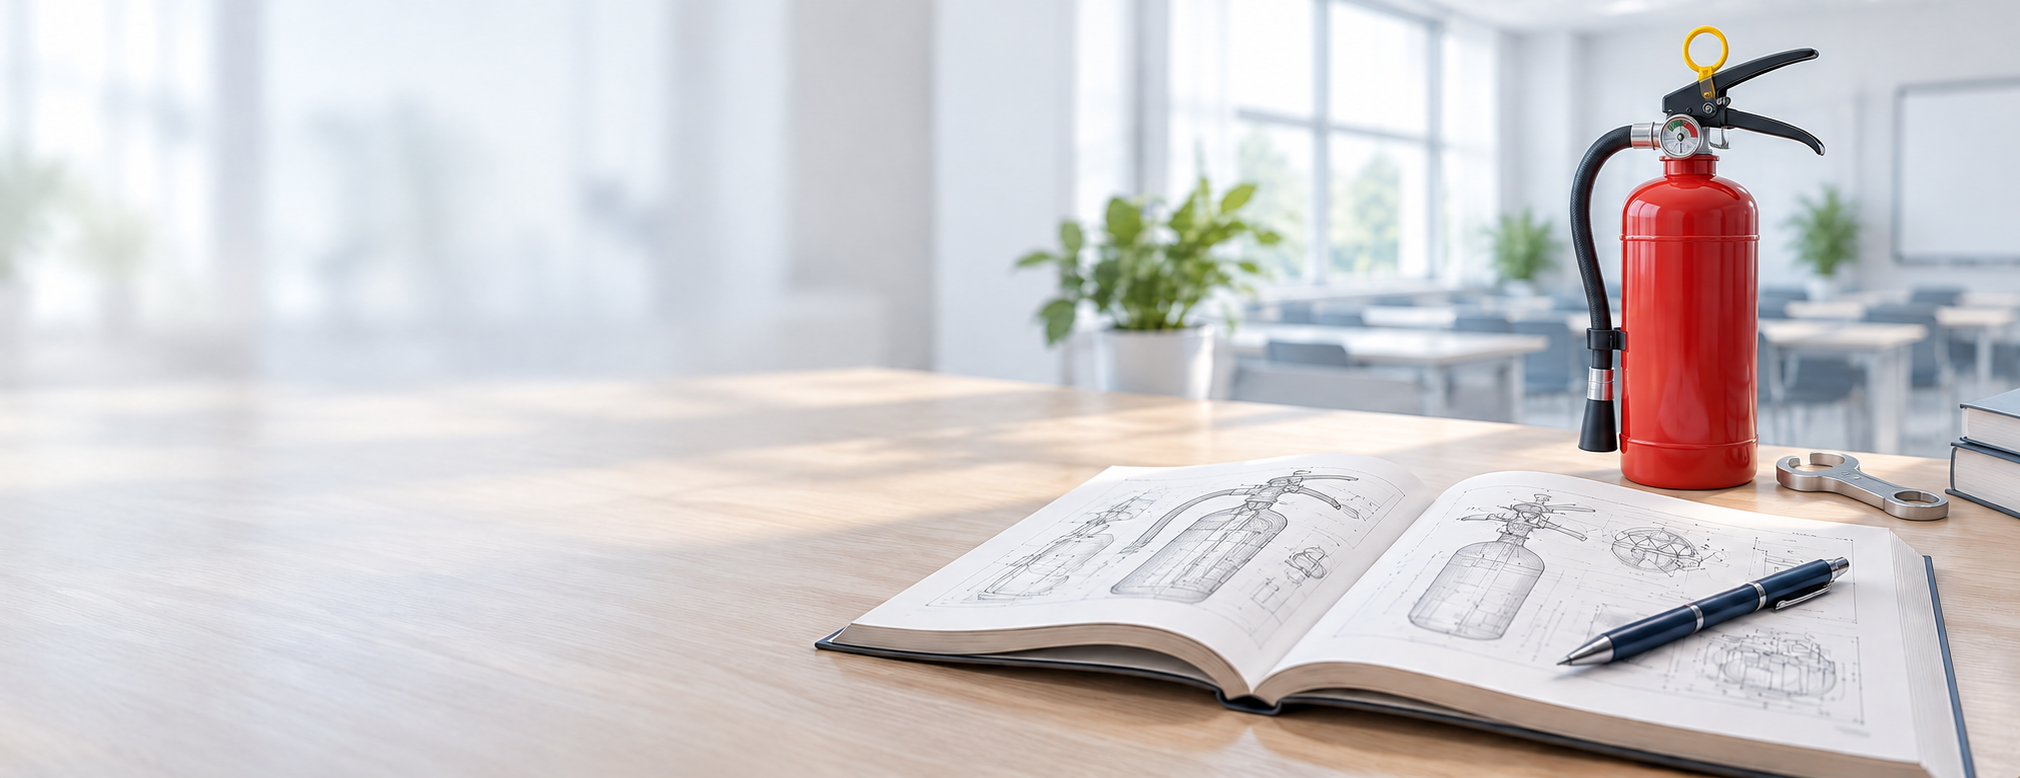
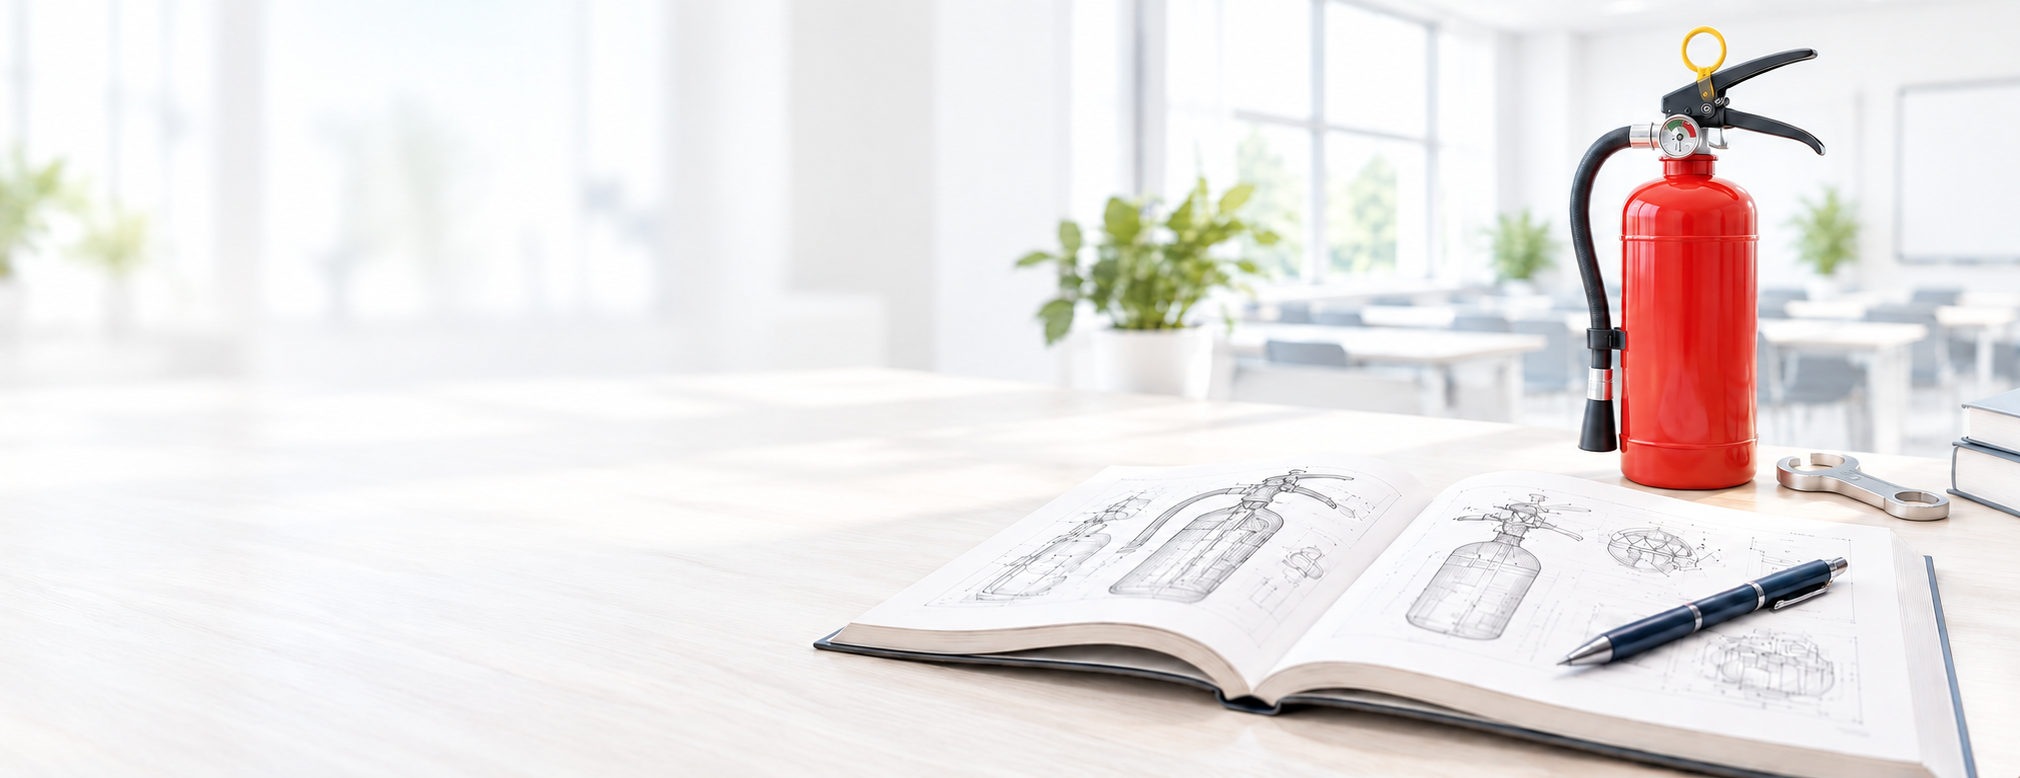
feat(home/learn/terms): ホームUI改善・教材の表描画・用語の章先頭化・章スワイプ
- 教材: マークダウンの | 表 | を罫線つきの正式な表で描画(見出し行+縦横罫線)
- ホーム: 試験日カウントダウンの負マージン(-46)を解消しヒーロー画像の下へ
- ホーム: メニューを2列×3段に再配置(教材で学ぶ/用語・模試試験/相関図・お気に入りの用語/ブックマーク)。お気に入りの用語=用語対象の★一覧へ直行
- 模試・成績: ホームと重複していた分野別レーダーを削除
- 用語集: 章の選択→その章/お気に入り→用語一覧の章先頭フローに変更(章内検索つき)
- 教材リーダー: 左右スワイプで隣の章へ移動(前/次の章ボタン・章タイトル表示・章移動で先頭スクロール)
- 試験総合解説のライト画像を調整前版に差し替え

diff --git a/App.tsx b/App.tsx
@@ -1,7 +1,7 @@
-import React, { useEffect, useMemo, useState } from 'react';
+import React, { useEffect, useMemo, useRef, useState } from 'react';
 import {
   View, Text, ScrollView, Pressable, Image, TextInput,
-  useWindowDimensions,
+  useWindowDimensions, PanResponder,
 } from 'react-native';
 import { StatusBar } from 'expo-status-bar';
 import { SafeAreaProvider, useSafeAreaInsets } from 'react-native-safe-area-context';
@@ -51,16 +51,27 @@ function Markdown({ body }: { body: string }) {
   const imgW = Math.min(width - 32, 560);
   const blocks = useMemo(() => {
     const lines = body.split('\n');
-    const out: { type: string; text: string }[] = [];
+    const out: { type: string; text: string; rows?: string[][] }[] = [];
     let inCode = false; let code: string[] = [];
+    let tbl: string[][] | null = null;
     const strip = (x: string) => x.replace(/\*\*(.+?)\*\*/g, '$1').replace(/`([^`]+)`/g, '$1');
+    const flushTbl = () => { if (tbl && tbl.length) out.push({ type: 'table', text: '', rows: tbl }); tbl = null; };
     for (const raw of lines) {
       const ln = raw.replace(/\s+$/, '');
       if (ln.trim().startsWith('```')) {
+        flushTbl();
         if (inCode) { out.push({ type: 'code', text: code.join('\n') }); code = []; }
         inCode = !inCode; continue;
       }
       if (inCode) { code.push(raw); continue; }
+      // 表(| ... |): 連続する行をまとめて1つの表ブロックにする(区切り行 |---| は除外)
+      if (ln.startsWith('|')) {
+        const cells = ln.split('|').slice(1, -1).map((x) => strip(x.trim()));
+        const isSep = cells.length > 0 && cells.every((x) => x === '' || /^:?-{2,}:?$/.test(x.replace(/\s/g, '')));
+        if (!isSep) (tbl = tbl ?? []).push(cells);
+        continue;
+      }
+      flushTbl();
       const fig = ln.trim().match(/^\[\[fig:([^|\]]+)\|?([^\]]*)\]\]$/);
       if (fig) { out.push({ type: 'fig', text: fig[1] + '\u0001' + (fig[2] || '') }); continue; }
       if (ln.trim().startsWith('【図】')) { out.push({ type: 'figpending', text: ln.trim().slice(3) }); continue; }
@@ -69,11 +80,11 @@ function Markdown({ body }: { body: string }) {
       if (ln.startsWith('## ')) { out.push({ type: 'h2', text: strip(ln.slice(3)) }); continue; }
       if (ln.startsWith('# ')) { out.push({ type: 'h1', text: strip(ln.slice(2)) }); continue; }
       if (ln.startsWith('> ')) { out.push({ type: 'quote', text: strip(ln.slice(2)) }); continue; }
-      if (ln.startsWith('|')) { out.push({ type: 'table', text: ln.replace(/\|/g, '  ').trim() }); continue; }
       if (/^[-*] /.test(ln.trim())) { out.push({ type: 'li', text: strip(ln.trim().slice(2)) }); continue; }
       if (/^---+$/.test(ln.trim())) { out.push({ type: 'hr', text: '' }); continue; }
       out.push({ type: 'p', text: strip(ln) });
     }
+    flushTbl();
     return out;
   }, [body]);
 
@@ -102,7 +113,22 @@ function Markdown({ body }: { body: string }) {
         if (b.type === 'h3') return <Text key={i} style={s.mdH3}>{b.text}</Text>;
         if (b.type === 'quote') return <View key={i} style={s.quote}><Text style={s.quoteTxt}>{b.text}</Text></View>;
         if (b.type === 'code') return <View key={i} style={s.code}><Text style={s.codeTxt}>{b.text}</Text></View>;
-        if (b.type === 'table') return <Text key={i} style={s.tableTxt}>{b.text}</Text>;
+        if (b.type === 'table' && b.rows) {
+          const rows = b.rows;
+          return (
+            <View key={i} style={s.table}>
+              {rows.map((r, ri) => (
+                <View key={ri} style={[s.tableRow, ri === 0 && s.tableHeadRow, ri === rows.length - 1 && { borderBottomWidth: 0 }]}>
+                  {r.map((cell, ci) => (
+                    <View key={ci} style={[s.tableCell, ci > 0 && s.tableCellDiv]}>
+                      <Text style={[s.tableCellTxt, ri === 0 && s.tableHeadTxt]}>{cell}</Text>
+                    </View>
+                  ))}
+                </View>
+              ))}
+            </View>
+          );
+        }
         if (b.type === 'li') return <Text key={i} style={s.mdP}>{'・' + b.text}</Text>;
         return <Text key={i} style={s.mdP}>{b.text}</Text>;
       })}
@@ -144,7 +170,7 @@ function SubjectRadar({ compact }: { compact?: boolean }) {
 }
 
 // ---- ホーム ----
-function HomeScreen({ onGo, onModal, ver }: { onGo: (t: TabKey) => void; onModal: (m: ModalKey) => void; ver: number }) {
+function HomeScreen({ onGo, onModal, onFavTerms, ver }: { onGo: (t: TabKey) => void; onModal: (m: ModalKey) => void; onFavTerms: () => void; ver: number }) {
   const { c, resolved } = useTheme();
   const s = useStyles();
   const { width } = useWindowDimensions();
@@ -203,13 +229,13 @@ function HomeScreen({ onGo, onModal, ver }: { onGo: (t: TabKey) => void; onModal
           {answeredAny ? <Text style={s.radarHelp}>各分野40%以上・全体60%以上が合格の目安です。40%以下の分野は要注意。</Text> : null}
         </View>
 
-        {/* メニュー6カード */}
+        {/* メニュー6カード(2列×3段) */}
         <View style={s.grid}>
-          <MenuTile icon="book" title="教材" sub={'基礎から\nしっかり学ぶ'} onPress={() => onGo('learn')} />
-          <MenuTile icon="doc" title="模試・成績" sub={'本番形式で\n実力を試す'} onPress={() => onGo('mock')} />
-          <MenuTile icon="refresh" title="弱点復習" sub={'苦手を\n克服する'} onPress={() => onGo('mock')} />
-          <MenuTile icon="terms" title="用語集" sub={'重要用語を\n確認する'} onPress={() => onGo('terms')} />
+          <MenuTile icon="book" title="教材で学ぶ" sub={'基礎から\nしっかり学ぶ'} onPress={() => onGo('learn')} />
+          <MenuTile icon="terms" title="用語" sub={'重要用語を\n確認する'} onPress={() => onGo('terms')} />
+          <MenuTile icon="doc" title="模試試験" sub={'本番形式で\n実力を試す'} onPress={() => onGo('mock')} />
           <MenuTile icon="map" title="相関図" sub={'用語のつながり\nを見る'} onPress={() => onModal('relation')} />
+          <MenuTile icon="star" title="お気に入りの用語" sub={'★をつけた\n用語を見返す'} onPress={onFavTerms} />
           <MenuTile icon="bookmark" title="ブックマーク" sub={'気になる問題を\n見返す'} badge={bmCount > 0 ? String(bmCount) : undefined} onPress={() => onModal('bookmarks')} />
         </View>
 
@@ -308,37 +334,103 @@ function LearnScreen({ chapters, onOpen }: { chapters: Chapter[]; onOpen: (c: Ch
   );
 }
 
-function Reader({ chapter, onBack }: { chapter: Chapter; onBack: () => void }) {
+function Reader({ chapter, chapters, onBack, onNavigate }: { chapter: Chapter; chapters: Chapter[]; onBack: () => void; onNavigate: (no: string) => void }) {
   const s = useStyles();
+  const idx = chapters.findIndex((x) => x.no === chapter.no);
+  const prev = idx > 0 ? chapters[idx - 1] : null;
+  const nextCh = idx >= 0 && idx < chapters.length - 1 ? chapters[idx + 1] : null;
+
+  // スワイプ(左右)で隣の章へ。最新の遷移先は ref 経由で読む(PanResponder 自体は固定)。
+  const navRef = useRef<{ prev: Chapter | null; next: Chapter | null; go: (no: string) => void }>({ prev, next: nextCh, go: onNavigate });
+  navRef.current = { prev, next: nextCh, go: onNavigate };
+  const pan = useRef(
+    PanResponder.create({
+      onMoveShouldSetPanResponder: (_e, g) => Math.abs(g.dx) > 24 && Math.abs(g.dx) > Math.abs(g.dy) * 1.8,
+      onPanResponderRelease: (_e, g) => {
+        const { prev: p, next: n, go } = navRef.current;
+        if (g.dx <= -60 && n) go(n.no);
+        else if (g.dx >= 60 && p) go(p.no);
+      },
+    }),
+  ).current;
+
   return (
-    <View style={{ flex: 1 }}>
+    <View style={{ flex: 1 }} {...pan.panHandlers}>
       <View style={s.readerBar}>
         <Pressable onPress={onBack} hitSlop={10} style={({ pressed }) => [s.backBtn, pressed && s.pressed]}>
           <Text style={s.backTxt}>‹ 教材一覧</Text>
         </Pressable>
+        <Text style={s.qProgress} numberOfLines={1}>{'第' + chapter.no + '章 ' + chapter.title}</Text>
       </View>
-      <ScrollView style={{ flex: 1 }} contentContainerStyle={[s.pad, { paddingBottom: 40, paddingTop: 6 }]} showsVerticalScrollIndicator={false}>
+      <ScrollView key={chapter.no} style={{ flex: 1 }} contentContainerStyle={[s.pad, { paddingBottom: 40, paddingTop: 6 }]} showsVerticalScrollIndicator={false}>
         {chapter.body
           ? <Markdown body={chapter.body} />
           : <View style={s.soon}><Text style={s.soonBig}>準備中</Text><Text style={s.soonTxt}>{'第' + chapter.no + '章「' + chapter.title + '」の解説はこれから追加します。'}</Text></View>}
+        <View style={s.readerNav}>
+          <Pressable disabled={!prev} onPress={() => prev && onNavigate(prev.no)} style={({ pressed }) => [s.readerNavBtn, !prev && s.btnDisabled, pressed && s.pressed]}>
+            {prev ? <><Text style={s.readerNavTxt}>‹ 前の章</Text><Text style={s.readerNavSub} numberOfLines={1}>{prev.title}</Text></> : null}
+          </Pressable>
+          <Pressable disabled={!nextCh} onPress={() => nextCh && onNavigate(nextCh.no)} style={({ pressed }) => [s.readerNavBtn, { alignItems: 'flex-end' }, !nextCh && s.btnDisabled, pressed && s.pressed]}>
+            {nextCh ? <><Text style={s.readerNavTxt}>次の章 ›</Text><Text style={s.readerNavSub} numberOfLines={1}>{nextCh.title}</Text></> : null}
+          </Pressable>
+        </View>
       </ScrollView>
     </View>
   );
 }
 
 // ---- 用語集 ----
-function GlossaryScreen({ onBump, ver }: { onBump: () => void; ver: number }) {
+function GlossaryScreen({ onBump, ver, favInit }: { onBump: () => void; ver: number; favInit?: boolean }) {
   const { c } = useTheme();
   const s = useStyles();
   const [q, setQ] = useState('');
-  const [ch, setCh] = useState<string>('all');
-  const [favOnly, setFavOnly] = useState(false);
+  // sel: null = 章の選択画面 / '1'〜'6' = その章 / 'fav' = お気に入り
+  const [sel, setSel] = useState<string | null>(favInit ? 'fav' : null);
   const terms = useMemo(() => getGlossary(), [ver]);
+  const chapters = ['1', '2', '3', '4', '5', '6'];
+  const chCount = (k: string) => terms.filter((t) => t.chapter === k).length;
+  const favCount = terms.filter((t) => isFavTerm(t.term)).length;
 
-  const chips = [{ key: 'all', label: 'すべて' }, ...['1', '2', '3', '4', '5', '6'].map((k) => ({ key: k, label: CHAPTER_SHORT[k] }))];
-  const filtered = terms.filter((t) => {
-    if (ch !== 'all' && t.chapter !== ch) return false;
-    if (favOnly && !isFavTerm(t.term)) return false;
+  // ---- 章の選択画面 ----
+  if (sel === null) {
+    return (
+      <ScrollView style={{ flex: 1 }} contentContainerStyle={{ paddingBottom: 28 }} showsVerticalScrollIndicator={false}>
+        <View style={s.pad}>
+          <View style={s.viewHead}>
+            <Text style={s.eyebrow}>GLOSSARY</Text>
+            <Text style={s.viewH2}>用語集</Text>
+            <Text style={s.viewSub}>章を選ぶと、その章の重要用語が見られます。★でお気に入りに登録できます。</Text>
+          </View>
+          <View style={{ gap: 10, marginTop: 16 }}>
+            <Pressable style={({ pressed }) => [s.ch, pressed && s.pressed]} onPress={() => setSel('fav')}>
+              <View style={s.chNo}><Text style={s.chNoTxt}>★</Text></View>
+              <View style={{ flex: 1, minWidth: 0 }}>
+                <Text style={s.chTitle}>お気に入りの用語</Text>
+                <Text style={s.chSub}>{favCount > 0 ? `★をつけた用語 ${favCount}語` : 'まだ登録がありません'}</Text>
+              </View>
+              <Text style={s.chGo}>›</Text>
+            </Pressable>
+            {chapters.map((k) => (
+              <Pressable key={k} style={({ pressed }) => [s.ch, pressed && s.pressed]} onPress={() => setSel(k)}>
+                <View style={s.chNo}><Text style={s.chNoTxt}>{k}</Text></View>
+                <View style={{ flex: 1, minWidth: 0 }}>
+                  <Text style={s.chTitle}>{CHAPTER_SHORT[k]}</Text>
+                  <Text style={s.chSub}>{`重要用語 ${chCount(k)}語`}</Text>
+                </View>
+                <Text style={s.chGo}>›</Text>
+              </Pressable>
+            ))}
+          </View>
+        </View>
+      </ScrollView>
+    );
+  }
+
+  // ---- 章 / お気に入りの用語一覧 ----
+  const title = sel === 'fav' ? 'お気に入りの用語' : `第${sel}章 ${CHAPTER_SHORT[sel]}`;
+  const list = terms.filter((t) => {
+    if (sel === 'fav') { if (!isFavTerm(t.term)) return false; }
+    else if (t.chapter !== sel) return false;
     if (q.trim()) {
       const needle = q.trim();
       if (!(t.term.includes(needle) || (t.reading ?? '').includes(needle) || t.def.includes(needle))) return false;
@@ -347,43 +439,36 @@ function GlossaryScreen({ onBump, ver }: { onBump: () => void; ver: number }) {
   });
 
   return (
-    <ScrollView style={{ flex: 1 }} contentContainerStyle={{ paddingBottom: 28 }} showsVerticalScrollIndicator={false} keyboardShouldPersistTaps="handled">
-      <View style={s.pad}>
-        <View style={s.viewHead}>
-          <Text style={s.eyebrow}>GLOSSARY</Text>
-          <Text style={s.viewH2}>用語集</Text>
-          <Text style={s.viewSub}>消火器と法令の重要用語をまとめました。★でお気に入りに登録できます。</Text>
-        </View>
-
-        <View style={s.search}>
-          <Icon name="search" size={18} color={c.faint} />
-          <TextInput
-            style={s.searchInput}
-            placeholder="用語・よみ・説明で検索"
-            placeholderTextColor={c.faint}
-            value={q}
-            onChangeText={setQ}
-          />
-        </View>
-
-        <View style={s.chipRow}>
-          {chips.map((cp) => (
-            <Pressable key={cp.key} onPress={() => setCh(cp.key)} style={[s.chip, ch === cp.key && s.chipOn]}>
-              <Text style={[s.chipTxt, ch === cp.key && s.chipTxtOn]}>{cp.label}</Text>
-            </Pressable>
-          ))}
-          <Pressable onPress={() => setFavOnly((v) => !v)} style={[s.chip, favOnly && s.chipOn]}>
-            <Text style={[s.chipTxt, favOnly && s.chipTxtOn]}>★ お気に入り</Text>
-          </Pressable>
-        </View>
-
-        {filtered.length === 0 ? (
-          <Text style={[s.radarEmpty, { marginTop: 24 }]}>該当する用語がありません。</Text>
-        ) : filtered.map((t) => (
-          <TermCard key={t.id} term={t} onBump={onBump} />
-        ))}
+    <View style={{ flex: 1 }}>
+      <View style={s.readerBar}>
+        <Pressable onPress={() => { setSel(null); setQ(''); }} hitSlop={10} style={({ pressed }) => [s.backBtn, pressed && s.pressed]}>
+          <Text style={s.backTxt}>‹ 章の選択</Text>
+        </Pressable>
+        <Text style={s.qProgress}>{title}</Text>
       </View>
-    </ScrollView>
+      <ScrollView style={{ flex: 1 }} contentContainerStyle={{ paddingBottom: 28 }} showsVerticalScrollIndicator={false} keyboardShouldPersistTaps="handled">
+        <View style={s.pad}>
+          <View style={s.search}>
+            <Icon name="search" size={18} color={c.faint} />
+            <TextInput
+              style={s.searchInput}
+              placeholder="用語・よみ・説明で検索"
+              placeholderTextColor={c.faint}
+              value={q}
+              onChangeText={setQ}
+            />
+          </View>
+
+          {list.length === 0 ? (
+            <Text style={[s.radarEmpty, { marginTop: 24 }]}>
+              {sel === 'fav' ? '★をつけた用語がここに集まります。' : '該当する用語がありません。'}
+            </Text>
+          ) : list.map((t) => (
+            <TermCard key={t.id} term={t} onBump={onBump} />
+          ))}
+        </View>
+      </ScrollView>
+    </View>
   );
 }
 
@@ -456,12 +541,6 @@ function MockScoreScreen({ onBump }: { onBump: () => void }) {
               <Text style={s.statNum}>{stats.correct}<Text style={s.statUnit}> 問</Text></Text>
             </View>
           </View>
-        </View>
-
-        {/* 分野別レーダー */}
-        <View style={s.radarCard}>
-          <Text style={[s.cardTitle, { alignSelf: 'flex-start' }]}>分野ごとの実力</Text>
-          <SubjectRadar />
         </View>
 
         {/* 弱点復習 */}
@@ -951,6 +1030,7 @@ function Main() {
   const [contentVersion, setContentVersion] = useState(0);
   const [dataVersion, setDataVersion] = useState(0);
   const [tab, setTab] = useState<TabKey>('home');
+  const [termsFav, setTermsFav] = useState(false);
   const [openNo, setOpenNo] = useState<string | null>(null);
   const [modal, setModal] = useState<ModalKey>(null);
   const [syncing, setSyncing] = useState(false);
@@ -970,7 +1050,8 @@ function Main() {
   const chapters = useMemo(() => getChapters(), [contentVersion]);
   const openChapter = openNo ? (chapters.find((x) => x.no === openNo) ?? null) : null;
 
-  const goTab = (t: TabKey) => { setTab(t); if (t !== 'learn') setOpenNo(null); };
+  const goTab = (t: TabKey) => { setTab(t); if (t !== 'learn') setOpenNo(null); if (t === 'terms') setTermsFav(false); };
+  const goFavTerms = () => { setOpenNo(null); setTermsFav(true); setTab('terms'); };
 
   const doSync = () => {
     if (syncing) return;
@@ -995,11 +1076,11 @@ function Main() {
             </>
           ) : (
             <>
-              {tab === 'home' && <HomeScreen onGo={goTab} onModal={setModal} ver={dataVersion} />}
+              {tab === 'home' && <HomeScreen onGo={goTab} onModal={setModal} onFavTerms={goFavTerms} ver={dataVersion} />}
               {tab === 'learn' && (openChapter
-                ? <Reader chapter={openChapter} onBack={() => setOpenNo(null)} />
+                ? <Reader chapter={openChapter} chapters={chapters} onBack={() => setOpenNo(null)} onNavigate={(no) => setOpenNo(no)} />
                 : <LearnScreen chapters={chapters} onOpen={(x) => setOpenNo(x.no)} />)}
-              {tab === 'terms' && <GlossaryScreen onBump={bump} ver={dataVersion} />}
+              {tab === 'terms' && <GlossaryScreen onBump={bump} ver={dataVersion} favInit={termsFav} />}
               {tab === 'mock' && <MockScoreScreen onBump={bump} />}
               {tab === 'set' && <SettingsScreen onModal={setModal} onSync={doSync} syncing={syncing} />}
             </>

diff --git a/src/ui/styles.ts b/src/ui/styles.ts
@@ -19,7 +19,7 @@ export function makeStyles(c: Colors) {
     heroFade: { position: 'absolute', left: 0, right: 0, bottom: -1, height: 120, backgroundColor: 'transparent' },
 
     // ---- 試験日カウントダウン ----
-    countCard: { marginTop: -46, backgroundColor: c.card, borderWidth: 1, borderColor: c.line, borderRadius: 18, padding: 16, flexDirection: 'row', alignItems: 'center', gap: 14 },
+    countCard: { marginTop: 16, backgroundColor: c.card, borderWidth: 1, borderColor: c.line, borderRadius: 18, padding: 16, flexDirection: 'row', alignItems: 'center', gap: 14 },
     countLeft: { flex: 1 },
     countLabel: { color: c.muted, fontSize: 11, fontWeight: '700', letterSpacing: 1 },
     countRow: { flexDirection: 'row', alignItems: 'baseline', marginTop: 4 },
@@ -122,8 +122,21 @@ export function makeStyles(c: Colors) {
     quoteTxt: { color: c.fg, fontSize: 14, lineHeight: 22 },
     code: { backgroundColor: c.card2, borderWidth: 1, borderColor: c.line, borderRadius: 8, padding: 12, marginVertical: 6 },
     codeTxt: { color: c.muted, fontSize: 13, lineHeight: 20, fontFamily: 'Courier' },
-    tableTxt: { color: c.muted, fontSize: 13, lineHeight: 21, fontFamily: 'Courier' },
+    // ---- マークダウン表(罫線つき) ----
+    table: { borderWidth: 1, borderColor: c.line, borderRadius: 10, overflow: 'hidden', marginVertical: 12 },
+    tableRow: { flexDirection: 'row', borderBottomWidth: 1, borderBottomColor: c.line },
+    tableHeadRow: { backgroundColor: c.card2 },
+    tableCell: { flex: 1, paddingVertical: 9, paddingHorizontal: 10, justifyContent: 'center' },
+    tableCellDiv: { borderLeftWidth: 1, borderLeftColor: c.line },
+    tableCellTxt: { color: c.fg, fontSize: 13, lineHeight: 19 },
+    tableHeadTxt: { fontWeight: '900' },
     hr: { height: 1, backgroundColor: c.line, marginVertical: 12 },
+
+    // ---- リーダー: 前/次の章ナビ ----
+    readerNav: { flexDirection: 'row', gap: 12, marginTop: 28 },
+    readerNavBtn: { flex: 1, backgroundColor: c.card, borderWidth: 1, borderColor: c.line, borderRadius: 12, paddingVertical: 12, paddingHorizontal: 14, minHeight: 56, justifyContent: 'center' },
+    readerNavTxt: { color: c.accent, fontSize: 13, fontWeight: '900' },
+    readerNavSub: { color: c.muted, fontSize: 11.5, marginTop: 3 },
 
     // ---- 問題演習 ----
     reviewBtn: { marginTop: 16, backgroundColor: c.card, borderWidth: 1, borderColor: c.good, borderRadius: 14, padding: 15 },
